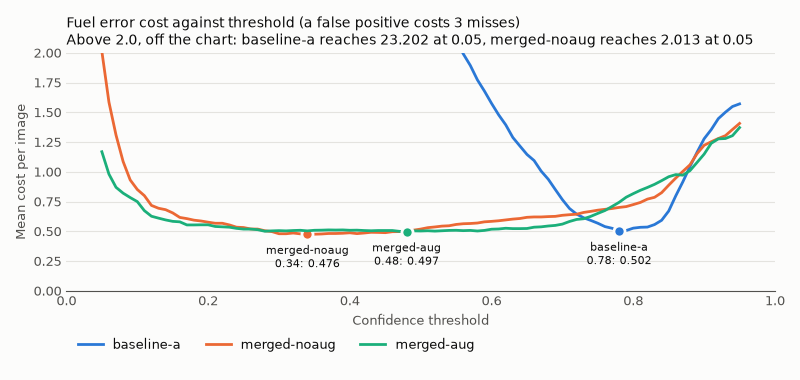
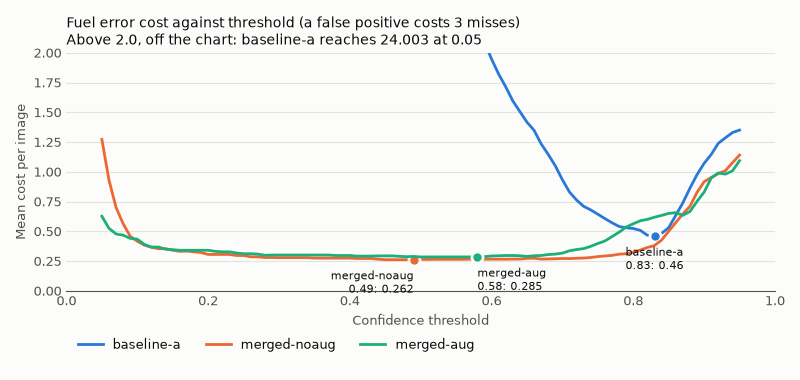
docs: deploy merged-noaug at 0.49 and hold held balls out of scope
Nick ruled balls held by a person out of scope for the robot and chose
merged-noaug (D-032, D-033). Thresholds are chosen on A, B, and C test,
and the lockbox's photos and video of balls on the ground check the
choice. The webcam frames are reported apart.

diff --git a/docs/EVALUATION.md b/docs/EVALUATION.md
@@ -81,98 +81,88 @@ into real fuel and mistakes. The field test set has not been scored.
 
 ## Choosing the robot's threshold
 
-Each model gets its own threshold: 0.34 for `merged-noaug`, 0.48 for
-`merged-aug`, and 0.78 for baseline-a. The thresholds are chosen on the
-tuning sets and checked on the held-out half of the lockbox, and the two
-disagree about which model suits the robot better. Over the tuning sets
-`merged-noaug` at 0.34 has the lowest mean cost, 0.476 per image, against
-0.502 for baseline-a at 0.78. On the held-out half, which played no part in
-either choice, baseline-a's errors cost 0.49 per image and `merged-noaug`'s
-1.303. The tuning-set gap is small, has no interval, and comes from the
-sets each threshold was fitted to, so the held-out half is the fairer
-comparison, though it is 198 images from one workshop. This section sets
-each model's threshold and leaves the choice of model open (D-031). Every
-other table in this document uses 0.5.
+`merged-noaug` is the model for the robot (D-033), and its threshold is
+0.49. Over A, B, and C test its fuel errors cost 0.262 per image there,
+against 0.264 at 0.5, and every threshold from 0.35 to 0.72 costs about as
+little, so 0.5 already sits in the flat stretch. On the lockbox's phone
+photos and video, balls on the ground that played no part in the choice,
+it finds 0.98 of the balls with precision 0.973, and the interval on that
+recall is 0.975 to 1.0. That check is 49 images from one workshop, so it
+confirms the choice more than it measures it.
 
-Lowering `merged-noaug`'s threshold costs almost nothing on C. Its fuel
-precision there is 0.842 at 0.34 and 0.844 at 0.5, with 70 false positives
-against 69, because its false positives on C are confident enough to
-survive any threshold in the flat stretch. On the held-out half its recall
-rises from 0.52 at 0.5 to 0.6 at 0.34, with an interval of 0.429 to 0.765,
-and 13 boxes match no label (precision 0.962). Every threshold from 0.29 to
-0.47 costs about the same over the tuning sets, and for `merged-aug` the
-flat stretch runs from 0.25 to 0.61, so the exact value matters less than
-staying off the steep ends of the curve.
+The robot's job sets the tuning data. It has to find fuel on the field and
+must not chase people, spectators, robots, or balls from past games, which
+is what C tests. It never picks up a ball a person is holding, so the
+lockbox's webcam frames, 314 images of one person holding and tossing
+balls, are reported as out of scope and do not move the choice (D-032).
+They are where the merged models fall short. At 0.5 `merged-noaug` finds
+0.393 of the balls there and baseline-a 0.938, so a use that needs held
+balls should not take this model as it is.
 
-For baseline-a the threshold matters far more, because of C. At 0.78 it
-draws 151 false positives on C (precision 0.711), down from at least 1083
-at 0.5, and its mean cost over the tuning sets falls from 2.845 to 0.502.
-C was a tuning set, so that is a best case. On the held-out half the higher
-threshold does not help. Its cost there is 0.49 at 0.78 against 0.48 at
-0.5, as recall falls from 0.953 to 0.839. No threshold closes the merged
-models' gap on the lockbox.
+baseline-a needs a high threshold, 0.83, to keep its false positives on C
+down. There it draws 99 on C (precision 0.783), down from at least 1083 at
+0.5, but it misses 62 balls on A (recall 0.811), and its mean cost is
+0.46, against 0.262 for `merged-noaug`. `merged-aug` comes in at 0.58,
+with a mean cost of 0.285. These means have no intervals, and A, B, and C
+test helped choose, so each model's scores there at its own threshold are
+slightly optimistic.
 
 The costs price a false positive at three misses (D-031). REBUILT puts a
 lot of fuel on the field, and a ball missed in one frame is usually found
 a few frames later, while a confident box on a person or an old game's
-ball comes back every frame and sends the robot after nothing. The four
-tuning sets count equally, so C's size does not swamp the lockbox. They
-are A, B, and C test and half of the lockbox's recordings and photo
-groups, cut within each kind of image (D-032). A, B, and C test helped
-choose, so their numbers at the chosen threshold are slightly optimistic.
-No model was scored on video, so the claim that a missed ball turns up a
-few frames later is an assumption.
+ball comes back every frame and sends the robot after nothing. The three
+tuning sets count equally, so C's size does not swamp A and B. No model
+was scored on video, so the claim that a missed ball turns up a few frames
+later is an assumption.
 
-Robot boxes share the threshold unless the robot filters by class. At 0.34
-`merged-noaug` draws 140 robot false positives on C, some of them robot
-boxes on fuel labels (precision 0.863, against 0.9 at 0.5). The robot
-steers around other robots, and no cost was set for those errors, so the
-edge pipeline in Task 12 can keep robot boxes at 0.5.
+Robot boxes share the threshold unless the robot filters by class, and
+their errors were not costed. At 0.49 that changes little for robots on C
+(precision 0.898, against 0.9 at 0.5).
 
 <!-- THRESHOLD:START -->
-Costs price one fuel false positive at 3.0 and one miss at 1.0, per image of each set. The chosen threshold has the lowest mean cost over the tuning sets, and the band is the run of thresholds around it whose mean cost is at most 5% above it. Only the held-out half of the lockbox played no part in the choice. Precision and recall come from supervision's metrics, as in the runs, and can differ slightly from the counts beside them, which follow the confusion matrix. <!-- numbers: ok -->
+Costs price one fuel false positive at 3.0 and one miss at 1.0, per image of each set. The chosen threshold has the lowest mean cost over the tuning sets, and the band is the run of thresholds around it whose mean cost is at most 5% above it. Held-out and out-of-scope sets played no part in the choice, and out-of-scope sets show cases the robot never acts on. Precision and recall come from supervision's metrics, as in the runs, and can differ slightly from the counts beside them, which follow the confusion matrix. <!-- numbers: ok -->
 
 | Model | Chosen threshold | Band | Mean cost | Mean cost at 0.5 | Held-out recall interval |
 |---|---|---|---|---|---|
-| baseline-a | 0.78 | 0.77 to 0.8 | 0.502 | 2.845 | 0.763 to 0.905 |
-| merged-noaug | 0.34 | 0.29 to 0.47 | 0.476 | 0.519 | 0.429 to 0.765 |
-| merged-aug | 0.48 | 0.25 to 0.61 | 0.497 | 0.503 | 0.371 to 0.726 |
+| baseline-a | 0.83 | 0.82 to 0.83 | 0.46 | 3.553 | 0.932 to 1.0 |
+| merged-noaug | 0.49 | 0.35 to 0.72 | 0.262 | 0.264 | 0.975 to 1.0 |
+| merged-aug | 0.58 | 0.38 to 0.67 | 0.285 | 0.285 | 0.975 to 1.0 |
 
 ![Mean cost against threshold](assets/threshold_cost.png)
 
-#### baseline-a at 0.78 and at 0.5
+#### baseline-a at 0.83 and at 0.5
 
 | Set | Role | Images | Precision | Recall | False positives | Misses | Cost | Precision at 0.5 | Recall at 0.5 | Cost at 0.5 |
 |---|---|---|---|---|---|---|---|---|---|---|
-| marswars test | tuning | 171 | 0.993 | 0.927 | 2 | 24 | 0.175 | 0.976 | 0.976 | 0.187 |
+| marswars test | tuning | 171 | 0.996 | 0.811 | 1 | 62 | 0.38 | 0.976 | 0.976 | 0.187 |
 | robotzftp2 test | tuning | 286 | 1.0 | 1.0 | 0 | 0 | 0.0 | 0.959 | 1.0 | 0.126 |
-| scorekeeper test | tuning | 314 | 0.711 | 0.995 | 151 | 2 | 1.449 | 0.257 | 1.0 | 10.347 |
-| pankratz tuning half | tuning | 165 | 1.0 | 0.833 | 0 | 63 | 0.382 | 0.92 | 0.942 | 0.721 |
-| pankratz held-out half | held out | 198 | 0.994 | 0.839 | 3 | 88 | 0.49 | 0.958 | 0.953 | 0.48 |
+| scorekeeper test | tuning | 314 | 0.783 | 0.955 | 99 | 17 | 1.0 | 0.257 | 1.0 | 10.347 |
+| pankratz phone video, phone photos | held out | 49 | 1.0 | 0.946 | 0 | 8 | 0.163 | 0.987 | 1.0 | 0.122 |
+| pankratz webcam frames | out of scope | 314 | 0.998 | 0.57 | 1 | 334 | 1.073 | 0.933 | 0.938 | 0.662 |
 
 On scorekeeper test, the prediction limit may have dropped boxes at or above 0.5, so false positives and cost there at 0.5 are lower bounds.
 
-#### merged-noaug at 0.34 and at 0.5
+#### merged-noaug at 0.49 and at 0.5
 
 | Set | Role | Images | Precision | Recall | False positives | Misses | Cost | Precision at 0.5 | Recall at 0.5 | Cost at 0.5 |
 |---|---|---|---|---|---|---|---|---|---|---|
-| marswars test | tuning | 171 | 0.985 | 0.97 | 5 | 10 | 0.146 | 0.991 | 0.963 | 0.123 |
-| robotzftp2 test | tuning | 286 | 0.993 | 1.0 | 2 | 0 | 0.021 | 0.996 | 1.0 | 0.01 |
-| scorekeeper test | tuning | 314 | 0.842 | 1.0 | 70 | 0 | 0.669 | 0.844 | 1.0 | 0.659 |
-| scorekeeper test (robot) | tuning | 314 | 0.863 | 0.877 | 140 | 124 | n/a | 0.9 | 0.84 | n/a |
-| pankratz tuning half | tuning | 165 | 0.986 | 0.557 | 3 | 167 | 1.067 | 1.0 | 0.438 | 1.285 |
-| pankratz held-out half | held out | 198 | 0.962 | 0.6 | 13 | 219 | 1.303 | 0.976 | 0.52 | 1.394 |
+| marswars test | tuning | 171 | 0.991 | 0.966 | 3 | 11 | 0.117 | 0.991 | 0.963 | 0.123 |
+| robotzftp2 test | tuning | 286 | 0.996 | 1.0 | 1 | 0 | 0.01 | 0.996 | 1.0 | 0.01 |
+| scorekeeper test | tuning | 314 | 0.844 | 1.0 | 69 | 0 | 0.659 | 0.844 | 1.0 | 0.659 |
+| scorekeeper test (robot) | tuning | 314 | 0.898 | 0.841 | 96 | 160 | n/a | 0.9 | 0.84 | n/a |
+| pankratz phone video, phone photos | held out | 49 | 0.973 | 0.98 | 2 | 1 | 0.143 | 0.973 | 0.98 | 0.143 |
+| pankratz webcam frames | out of scope | 314 | 0.987 | 0.399 | 4 | 467 | 1.525 | 0.99 | 0.393 | 1.532 |
 
-#### merged-aug at 0.48 and at 0.5
+#### merged-aug at 0.58 and at 0.5
 
 | Set | Role | Images | Precision | Recall | False positives | Misses | Cost | Precision at 0.5 | Recall at 0.5 | Cost at 0.5 |
 |---|---|---|---|---|---|---|---|---|---|---|
-| marswars test | tuning | 171 | 0.984 | 0.951 | 5 | 16 | 0.181 | 0.984 | 0.948 | 0.187 |
-| robotzftp2 test | tuning | 286 | 0.996 | 1.0 | 1 | 0 | 0.01 | 1.0 | 1.0 | 0.0 |
+| marswars test | tuning | 171 | 0.984 | 0.948 | 5 | 17 | 0.187 | 0.984 | 0.948 | 0.187 |
+| robotzftp2 test | tuning | 286 | 1.0 | 1.0 | 0 | 0 | 0.0 | 1.0 | 1.0 | 0.0 |
 | scorekeeper test | tuning | 314 | 0.842 | 1.0 | 70 | 0 | 0.669 | 0.842 | 1.0 | 0.669 |
-| scorekeeper test (robot) | tuning | 314 | 0.901 | 0.854 | 94 | 147 | n/a | 0.906 | 0.853 | n/a |
-| pankratz tuning half | tuning | 165 | 0.981 | 0.538 | 4 | 174 | 1.127 | 0.98 | 0.525 | 1.158 |
-| pankratz held-out half | held out | 198 | 0.984 | 0.553 | 5 | 245 | 1.313 | 0.984 | 0.546 | 1.333 |
+| scorekeeper test (robot) | tuning | 314 | 0.916 | 0.845 | 78 | 156 | n/a | 0.906 | 0.853 | n/a |
+| pankratz phone video, phone photos | held out | 49 | 0.993 | 0.98 | 1 | 3 | 0.122 | 0.993 | 0.98 | 0.122 |
+| pankratz webcam frames | out of scope | 314 | 0.988 | 0.426 | 4 | 446 | 1.459 | 0.978 | 0.453 | 1.43 |
 <!-- THRESHOLD:END -->
 
 ## How the baseline does on other teams' data

diff --git a/docs/DECISIONS.md b/docs/DECISIONS.md
@@ -924,34 +924,59 @@ threshold section in `docs/EVALUATION.md` gives each model's scores at its
 own threshold. The cost ratio is a judgment, and no model was scored on
 video, so the frame-to-frame argument is untested. Robot boxes are not
 costed. They share the threshold unless the edge pipeline filters by class.
-The choice sets each model's threshold but does not pick the model. The
-tuning sets favor `merged-noaug` narrowly (0.476 against 0.502 per image),
-while the held-out lockbox half favors baseline-a (0.49 against 1.303), so
-which model runs on the robot is left to Nick.
+The tuning sets are A, B, and C test (D-032), so each model's scores
+there at its own threshold are slightly optimistic.
 
-## D-032: Split the lockbox into a tuning half and a held-out half (2026-09-30)
+## D-032: Choose on A, B, and C, and hold the lockbox out (2026-09-30)
 
-Context. The lockbox (D-026) is where the merged models fall short, so a
-threshold chosen without it would ignore the case that matters most. But a
-threshold chosen on the whole lockbox would leave no result free of the
-choice. The merged valid split, the usual place to tune, holds no frames of
-people holding fuel, and scoring it would take hosted calls.
+Context. The robot has to find fuel on the field and must not chase
+people, spectators, robots, or balls from past games, which is what C
+tests. It never picks up a ball a person is holding. Most of the lockbox
+(D-026), 314 of its 363 images, is webcam frames of one person holding and
+tossing balls, and nearly all of the merged models' lockbox misses are
+there. The merged valid split holds no such frames, and scoring it would
+take hosted calls.
 
-Decision. On 2026-09-30, at Nick's choice, the lockbox's 280 units
-(recordings and photo groups, grouped the same way as in the evaluation
-runs) were cut in two within each kind of image: webcam frames, phone
-video, and phone photos. Within a kind, units are ordered by a hash of the seed and the
-unit name, and the first half goes to tuning. The tuning half is 165
-images and the held-out half 198, with 140 units each. The unit lists are
-in each `threshold.json`. A, B, and C test are also tuning sets.
+Decision. On 2026-09-30 Nick ruled balls held by a person out of scope for
+the robot. The threshold is chosen on A, B, and C test alone. The lockbox
+is scored only at the chosen threshold, cut by kind of image. Its phone
+photos and phone video, balls on the ground, are the held-out check. Its
+webcam frames are reported apart as out of scope (`held_out` in
+`configs/project.yaml`).
 
-Why. Cutting by unit keeps frames of one recording on one side, as the
-splits do (D-013). Cutting within each kind keeps webcam frames on both
-sides, since they hold nearly all the misses. The plan asked for every
-kind in both halves, but the phone video is a single unit, and half of one
-rounds to none, so it went whole to the held-out half.
+Why. Tuning on the webcam frames would lower the threshold to catch balls
+the robot never acts on, and every extra box it lets through elsewhere is
+a possible wasted pickup. Keeping the lockbox out of the choice leaves one
+set scored free of it. An earlier version on this branch cut the lockbox
+into a tuning half and a held-out half by unit, which pulled
+`merged-noaug`'s threshold down to 0.34 mostly for the webcam frames, and
+was dropped for this reason.
 
-Consequences. Only the held-out half is scored free of the choice, and it
-is 198 images from one workshop, so its recall interval is wide. Scores at
-the chosen threshold on A, B, and C test are slightly optimistic. The
-whole-lockbox runs at 0.5 are unchanged and still published.
+Consequences. The held-out check is small, 49 images in 28 units from one
+workshop, so its recall interval says little. A, B, and C test helped
+choose, so their scores at the chosen threshold are slightly optimistic.
+How the models do on held balls is still reported, so a use that needs
+them can see the gap. The whole-lockbox runs at 0.5 are unchanged and
+still published.
+
+## D-033: Run merged-noaug on the robot (2026-09-30)
+
+Context. Task 12 deploys one model. At its own threshold, `merged-noaug`
+has the lowest cost over A, B, and C test of the three models. baseline-a
+does better on the lockbox's webcam frames, which D-032 puts out of scope.
+`merged-aug` scores about the same as `merged-noaug`, and its training
+cannot isolate augmentation (D-029).
+
+Decision. On 2026-09-30 Nick chose `merged-noaug` for the robot, run at
+its `deploy_confidence` in `reports/models.yaml` for fuel.
+
+Why. It draws far fewer false positives on people and past games than
+baseline-a, which is the error that sends the robot after nothing, and its
+threshold sits in a flat stretch of the cost curve, so the choice does not
+hinge on the exact value. It is the simpler of the two merged models,
+since `merged-aug` continued from its weights (D-029).
+
+Consequences. `docs/MODEL_CARD.md` still describes baseline-a and should
+move to `merged-noaug` with the deployment in Task 12. Nothing here was
+scored on REBUILT footage from a robot, which the field test set would
+show.

diff --git a/PROGRESS.md b/PROGRESS.md
@@ -218,26 +218,26 @@ docs/DECISIONS.md. Task scope and "done when" criteria are in SPEC section 7.
     `/publish-diagnosis` and `/face-check`.
 - [x] Task 11: Threshold choice (v0.2.0)
   - `frc-threshold` (`make threshold`) chooses each model's threshold from
-    its cached test predictions, pricing a fuel false positive at three
-    misses (D-031), and writes `reports/thresholds/<model>/`. The lockbox
-    is cut by unit into a tuning half and a held-out half (D-032). The
-    choices are `deploy_confidence` in `reports/models.yaml`, and
-    `make report` writes the tables and the cost figure into
-    `docs/EVALUATION.md`.
-  - Result. `merged-noaug` runs best at 0.34, where its held-out lockbox
-    recall rises from 0.52 to 0.6 and its C precision barely moves, since
-    its false positives on C are confident. baseline-a runs best at 0.78.
-    The tuning sets favor `merged-noaug` narrowly, but on the held-out
-    half baseline-a's errors cost far less (0.49 against 1.303 per image),
-    so the choice of model is left to Nick.
-  - Differences from SPEC section 7. Runs were not
-    rescored at the new threshold, since that would replace the 0.5 runs
-    the Task 10 write-up cites (D-031). A, B, and C test helped choose, so
-    only the held-out lockbox half is free of the choice. Robot boxes were
-    not costed.
-  - For Task 12. Run the chosen model at its `deploy_confidence` for fuel,
-    and consider keeping robot boxes at 0.5 by filtering per class. The next
-    data to add is still labeled images of people holding fuel.
+    its cached test predictions on A, B, and C, pricing a fuel false
+    positive at three misses (D-031), and writes
+    `reports/thresholds/<model>/`. The lockbox is scored only at the chosen
+    threshold, with its webcam frames of held balls reported as out of
+    scope (D-032). The choices are `deploy_confidence` in
+    `reports/models.yaml`, and `make report` writes the tables and the cost
+    figure into `docs/EVALUATION.md`.
+  - Result. Nick chose `merged-noaug` for the robot (D-033). Its threshold
+    is 0.49, in a flat stretch from 0.35 to 0.72, and on the lockbox's
+    photos and video of balls on the ground it finds 0.98 of the balls.
+    baseline-a needs 0.83 to hold down its false positives on C, which
+    costs it recall on A.
+  - Differences from SPEC section 7. Runs were not rescored at the new
+    threshold, since that would replace the 0.5 runs the Task 10 write-up
+    cites (D-031). A, B, and C test helped choose, so only the lockbox is
+    free of the choice. Robot boxes were not costed.
+  - For Task 12. Deploy `merged-noaug` at its `deploy_confidence` for
+    fuel, and consider keeping robot boxes at 0.5 by filtering per class.
+    Move `docs/MODEL_CARD.md` to `merged-noaug`. If held balls ever matter,
+    the next data to add is labeled images of people holding fuel.
 - [ ] Task 12: Edge deployment (v0.3.0, before interviews)
 
 Field test set: pending confirmation

diff --git a/docs/WRITEUP.md b/docs/WRITEUP.md
@@ -199,20 +199,19 @@ A robot needs one threshold, and a wrong box costs more than a missed ball.
 Fuel is plentiful, and a ball missed in one frame usually shows up a few
 frames later, while a box on a person comes back every frame and sends the
 robot after nothing. So a false positive was priced at three misses, and
-each model's threshold was chosen to make its errors cheapest across the
-test splits and half of the held-back dataset. The other half, the
-held-out half, was kept out of the choice to check it.
+each model's threshold was chosen to make its errors cheapest on the three
+test splits. The robot never picks up a ball someone is holding, so the
+held-back dataset's webcam frames were left out of the choice, and its
+photos of balls on the ground were kept aside to check it.
 
-The merged model's best threshold is 0.34. There its recall on the held-out
-half rises from 0.52 at 0.5 to 0.6, while its precision on C barely moves
-(0.842 against 0.844), since its remaining wrong boxes on C are confident
-ones. The baseline's best threshold is 0.78, which cuts its wrong boxes on
-C to 151. Over the sets used to choose, the merged model's errors cost a
-little less (0.476 per image against 0.502). On the held-out half, which
-neither choice saw, the baseline's cost 0.49 per image and the merged
-model's 1.303, so the baseline still does far better on balls held by a
-person, and no threshold changes that. Which model the robot should run is
-still open.
+The merged model runs on the robot, at a threshold of 0.49. Its errors
+there cost 0.262 per image, against 0.46 for the baseline at its own best
+threshold of 0.83, which it needs to keep its wrong boxes on C down and
+which costs it 62 missed balls on A. The merged model's cost is nearly
+flat from 0.35 to 0.72, so the exact value matters little. On the kept-aside
+photos it finds 0.98 of the balls, though that check is only 49 images.
+It still misses most balls held by a person, which the robot does not
+need.
 
 ## What comes next
 

diff --git a/docs/MODEL_CARD.md b/docs/MODEL_CARD.md
@@ -36,10 +36,11 @@ Two models trained on merged data, `merged-noaug` and `merged-aug`, are
 scored in `docs/EVALUATION.md` next to baseline-a. They draw far fewer
 fuel boxes on people and past games, but at a confidence of 0.5 they miss
 about half of the balls in a held-back dataset where a person holds them,
-so this card still describes baseline-a. `docs/EVALUATION.md` also picks
-a threshold for each model on a robot, pricing a false positive at three
-misses. baseline-a's is 0.78 (`deploy_confidence` in `reports/models.yaml`).
-The scores on this card are at 0.5.
+so this card still describes baseline-a. `merged-noaug` is the model
+chosen for the robot, and this card moves to it with the deployment.
+`docs/EVALUATION.md` picks a threshold for each model on a robot, pricing a
+false positive at three misses. baseline-a's is 0.83 (`deploy_confidence`
+in `reports/models.yaml`). The scores on this card are at 0.5.
 
 ## Intended use
 
